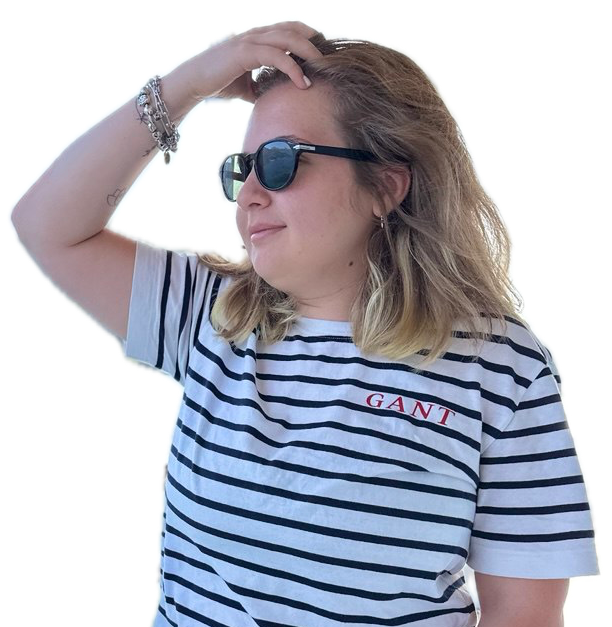
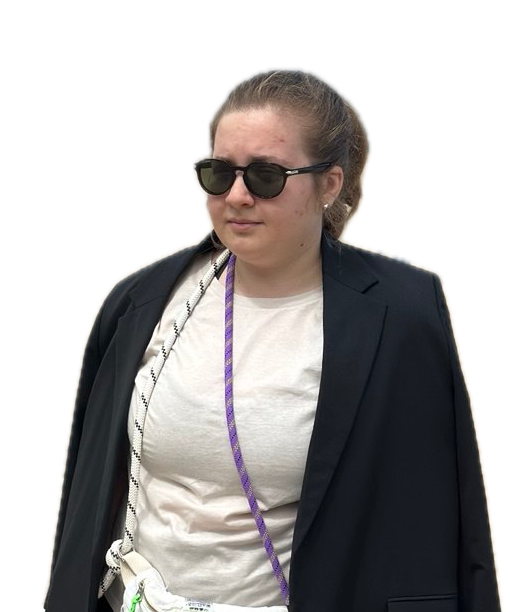
feat: update founder descriptions and adjust team member certifications

diff --git a/src/config/teamConfig.ts b/src/config/teamConfig.ts
@@ -40,7 +40,7 @@ export const foundersConfig: Founder[] = [
     title: 'CEO',
     company: 'Klepka',
     shortBio: 'Salesforce Architect & Consultant\n\nDesigns scalable end-to-end Salesforce solutions across Sales, Service, and Experience Cloud.\n\nLeads teams, drives integrations, and ensures efficient, adoption-focused CRM delivery.',
-    description: 'A Salesforce specialist with extensive experience in analysis, architecture, and implementation, combining strong technical expertise with deep functional understanding of business processes.\n\nHe has successfully designed and delivered scalable end-to-end Salesforce solutions, including complex integrations with third-party systems. His expertise spans Sales Cloud, Service Cloud, and Experience Cloud, where he focuses on building efficient, high-performing, and sustainable CRM environments.\n\nIn addition to technical delivery, he brings strong leadership capabilities, having built and led Salesforce Administrator teams, mentored professionals, and conducted internal training initiatives to strengthen organizational expertise.\n\nRecognized for his analytical mindset and clear communication style, he prioritizes operational efficiency, user adoption, and effective cross-functional collaboration to ensure long-term platform success.',
+    description: 'A Salesforce specialist with experience in analysis, architecture, and implementation, combining strong technical expertise with a deep functional understanding of business processes.\n\nExtensive experience designing and delivering scalable end-to-end Salesforce solutions, including complex integrations with third-party systems. Core expertise spans Sales Cloud, Service Cloud, and Experience Cloud, with a focus on building efficient, high-performing, and sustainable CRM environments.\n\nLeadership experience includes building and leading Salesforce Administrator teams, mentoring professionals, and conducting internal training initiatives to strengthen organizational expertise.\n\nKnown for an analytical mindset and clear communication style, with a consistent focus on operational efficiency, user adoption, and effective cross-functional collaboration to ensure long-term platform success.',
     startDate: '2018-01-08',
     certs: ['platformAdmin', 'salesCloud', 'pardotSpecialist'],
     avatar: sergiiAvatar,
@@ -56,7 +56,7 @@ export const foundersConfig: Founder[] = [
     title: 'CTO',
     company: 'Klepka',
     shortBio: 'Senior Salesforce Consultant delivering complex multi-cloud solutions (Sales, Service, Experience, CRMA).\n\nLeads technical discovery, solution design, and pre-sales workshops, translating business needs into scalable Salesforce architectures that drive measurable results.',
-    description: 'Senior Salesforce Consultant specializing in complex multi-cloud implementations across Sales Cloud, Service Cloud, Experience Cloud, and CRM Analytics.\n\nExperienced in leading technical discovery, solution architecture design, and effort estimation within enterprise sales cycles. Actively supports pre-sales engagements by facilitating workshops, defining scalable architectures, preparing detailed estimates, and presenting tailored solutions to executive stakeholders.\n\nSkilled at translating business objectives into structured, scalable Salesforce ecosystems that deliver measurable business value.\n\nCombines strong technical expertise with clear communication to build client confidence and accelerate decision-making.',
+    description: 'Senior Salesforce Consultant specializing in complex multi-cloud implementations across Sales Cloud, Service Cloud, Experience Cloud, and CRM Analytics.\n\nExperienced in leading technical discovery, solution architecture design, and effort estimation within enterprise sales cycles. Actively supports pre-sales engagements by facilitating workshops, defining scalable architectures, preparing detailed estimates, and presenting tailored solutions to executive stakeholders.\n\nSkilled at translating business objectives into structured, scalable Salesforce ecosystems that deliver measurable business value. Also experienced in conducting product demos and user training sessions to ensure smooth adoption and effective system usage.\n\nCombines strong technical expertise with clear communication to build client confidence and accelerate decision-making. Effectively collaborates with stakeholders across technical and business teams to ensure solutions align with strategic objectives.',
     startDate: '2020-01-20',
     certs: ['platformAdmin', 'salesCloud', 'experienceCloud', 'dataCloud', 'sharingVisibilityArchitect', 'platformDataArchitect'],
     avatar: dariaAvatar,
@@ -76,7 +76,7 @@ export const teamsConfig: Team[] = [
         name: 'Marina Penkova',
         description: 'Team Lead\n\nExperienced Salesforce Administrator with a strong background in user support, system maintenance, and process optimization. Leads the admin team in ensuring platform stability, user adoption, and continuous improvement.',
         startDate: '2021-01-07',
-        certs: ['platformAdmin','experienceCloud','platformAppBuilder'],
+        certs: ['platformAdmin','platformAppBuilder','experienceCloud'],
         avatar: marinaAvatar
       }
     ]
